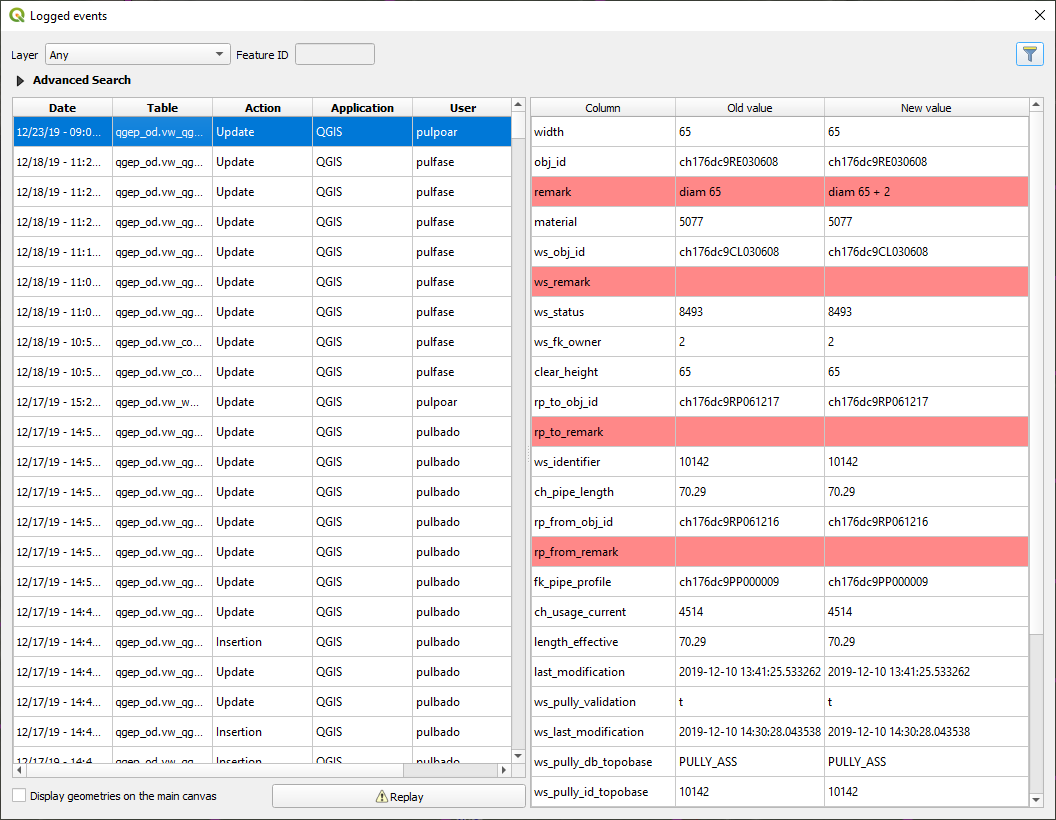
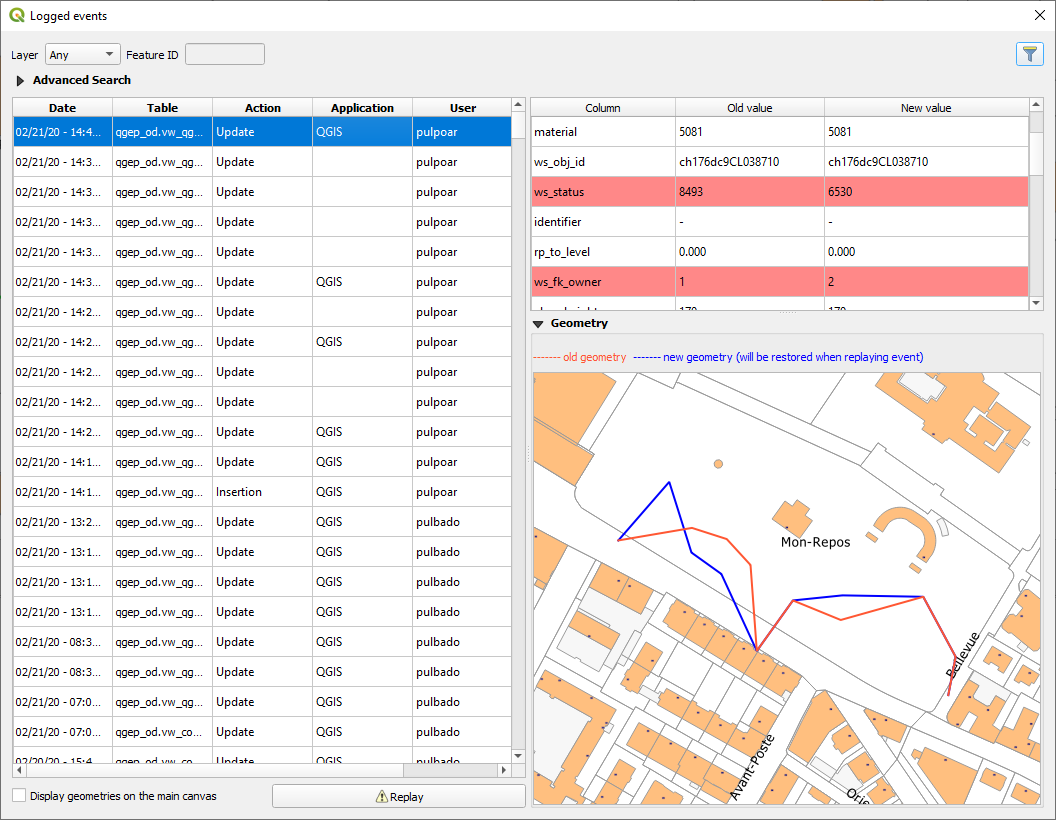
Fix replay function from history viewer

diff --git a/en/user-guide/history/history.rst b/en/user-guide/history/history.rst
@@ -25,15 +25,12 @@ The "logged events" window is composed of 4 parts.
 Replay function
 ---------------
 
-.. note::
-  Doesn't work yet for QGEP.
+If you have configured the replay option, you can replay actions. Example below:
 
-.. If you have configured the replay option, you can replay actions. Example below:
+Actual value:
 
-.. Actual value:
+.. image:: img/pg_hv_replay_before.png
 
-.. .. image:: img/pg_hv_replay_before.png
+Select the event you want to replay and its values will become the current ones. Example for the year that becomes 2004 again:
 
-.. Select the event you want to replay and its values will become the current ones. Example for the year that becomes 2004 again:
-
-.. .. image:: img/pg_hv_replay_after.png
+.. image:: img/pg_hv_replay_after.png
